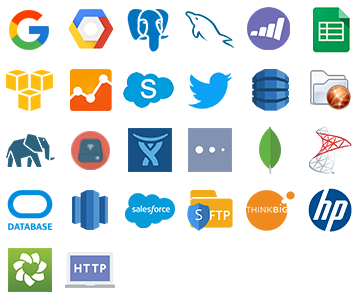
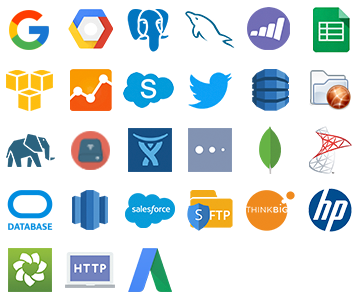
upd: add model, views, form, template for AdwordsDataSource

Changed region(s): [[0.3361, 0.81, 0.4889, 0.99]]

diff --git a/dmp/data_loader/templates/datasource/datasource_forms/adwords.html b/dmp/data_loader/templates/datasource/datasource_forms/adwords.html
@@ -1,0 +1,99 @@
+{% extends 'layout.html' %}
+{% load staticfiles %}
+{% block page_script %}
+<script src="{% static "js/datasource_crud.js" %}" type="text/javascript"></script>
+{% endblock %}
+{% block content %}
+
+    <div class="page datasources-add">
+        <div class="page-title">
+            <div class="content">
+                <h1>{% if form.instance.pk %}Update{% else %}Add{% endif %} Data Source - {{ provider.name }}</h1>
+            </div>
+        </div>
+
+        <div class="page-content">
+            <div class="content">
+
+                <div class="box">
+                    <div class="form-note">
+                        <span class="fa fa-lock"></span>
+                        All sensitive information is encrypted before stored
+                    </div>
+                    <div class="row">
+                        <div class="col col-50">
+                            <form id="form-create" method="POST" action="" enctype="multipart/form-data">
+                                    {% for error in form.non_field_errors %}
+                                        <p class="errors">{{ error }}</p>
+                                    {% endfor %}
+                                {% csrf_token %}
+                                <div class="form-row">
+                                    <div class="form-label">Data Source Name:</div>
+                                    {% for error in form.name.errors %}
+                                        <p class="errors">{{ error }}</p>
+                                    {% endfor %}
+                                    {{ form.name }}
+                                </div>
+                                <div class="form-row">
+                                    <div class="form-label">Conditions:</div>
+                                    {% for error in details_form.conditions.errors %}
+                                        <p class="errors">{{ error }}</p>
+                                    {% endfor %}
+                                    {{ details_form.conditions }}
+                                </div>
+                                <div class="form-row">
+                                    <div class="form-label">
+                                        Fields:
+                                    </div>
+                                    {% for error in details_form.field_list.errors %}
+                                        <p class="errors">{{ error }}</p>
+                                    {% endfor %}
+                                    {{ details_form.field_list }}
+                                    <div class="form-note">
+                                        <b>Note:</b> Field values must be separated by a comma (i.e. "CampaignId, CampaignName").<br>
+                                        Default values: CampaignId, CampaignName, CampaignStatus, Year, Month,
+                                        ClickType, ActiveViewCpm, AllConversions.
+                                    </div>
+                                </div>
+                                <div class="form-row">
+                                    <div class="form-label">Report:</div>
+                                    {% for error in details_form.report_type.errors %}
+                                        <p class="errors">{{ error }}</p>
+                                    {% endfor %}
+                                    {{ details_form.report_type }}
+                                    <div class="form-note">
+                                        <b>Note:</b> Default - CAMPAIGN_PERFORMANCE_REPORT.
+                                    </div>
+                                </div>
+                                <div class="form-row">
+                                    <div class="form-label">Date:</div>
+                                    {% for error in details_form.date_range.errors %}
+                                        <p class="errors">{{ error }}</p>
+                                    {% endfor %}
+                                    {{ details_form.date_range }}
+                                    <div class="form-note">
+                                        <b>Note:</b> Default - LAST_30_DAYS.
+                                    </div>
+                                </div>
+
+                                <div class="form-row">
+                                    <div class="form-label">Key file:</div>
+                                    <div class="form-file">
+                                        <span id="file-text-lable" class="form-placeholder">{% if details_form.instance.oauth_key_file %} {{ details_form.instance.filename }} {% else %}Upload OAuth key file...{% endif %}</span>
+                                        {% for error in details_form.oauth_key_file.errors %}
+                                            <p class="errors">{{ error }}</p>
+                                        {% endfor %}
+                                        {{ details_form.oauth_key_file }}
+                                    </div>
+                                </div>
+                                <div class="form-buttons">
+                                    <a href="javascript:void(0);" onclick="document.getElementById('form-create').submit(); return false;" class="button button-green">{% if form.instance.pk %}Update{% else %}Save & Collect{% endif %}</a>
+                                </div>
+                            </form>
+                        </div>
+                    </div>
+                </div>
+            </div>
+        </div>
+    </div>
+{% endblock %}

diff --git a/dmp/data_loader/static/css/style.css b/dmp/data_loader/static/css/style.css
@@ -443,6 +443,11 @@ h1, h2, h3 {
 .icon-dynamodb{
 	background-position: -30px -90px;
 }
+
+.icon-adwords{
+	background-position: -60px -120px;
+}
+
 /* boxes */
 .box {
 	background: #fff;

diff --git a/dmp/data_loader/forms.py b/dmp/data_loader/forms.py
@@ -2,7 +2,7 @@ from django import forms
 from data_loader.models import DataSource, DataFlowSettings, AnalyticsDataSource, SpreadsheetsDataSource, \
     PostgreSQLDataSource, VerticaDataSource, JDBCDataSource, OracleDBDataSource, MongoDBDataSource, FTPDataSource, \
     SalesforceDataSource, HadoopDataSource, GoogleCloudDataSource, MarketoDataSource, DynamoDBDataSource, \
-    HTTPDataSource, TwitterDataSource, ZendeskDataSource
+    HTTPDataSource, TwitterDataSource, ZendeskDataSource, AdwordsDataSource
 from django.utils.translation import ugettext_lazy as _
 from django.core.validators import FileExtensionValidator
 
@@ -598,3 +598,37 @@ class ZendeskDataSourceForm(forms.ModelForm):
     class Meta:
         model = ZendeskDataSource
         fields = ('login_url', 'username', 'password', 'target')
+
+
+class AdwordsDataSourceForm(forms.ModelForm):
+
+    conditions = forms.CharField(max_length=255, widget=forms.TextInput(
+        attrs={'class': 'form-input',
+               'placeholder': _('Query condition list (e.g. - "CampaignStatus IN")'),
+               'maxlength': 255}))
+
+    field_list = forms.CharField(max_length=255, widget=forms.TextInput(
+        attrs={'class': 'form-input',
+               'placeholder': _('Field list to query'),
+               'maxlength': 255}))
+
+    date_range = forms.CharField(max_length=255, widget=forms.TextInput(
+        attrs={'class': 'form-input',
+               'placeholder': _('Date range'),
+               'maxlength': 255}))
+
+    report_type = forms.CharField(max_length=255, widget=forms.TextInput(
+        attrs={'class': 'form-input',
+               'placeholder': _('Report type'),
+               'maxlength': 255}))
+
+    oauth_key_file = forms.FileField(widget=forms.FileInput(attrs={'class': 'form-input'}),
+                                     validators=[FileExtensionValidator(allowed_extensions=['json', 'yml', 'xml'])])
+
+    def __init__(self, *args, **kwargs):
+        self.request = kwargs.pop("request")
+        super(AdwordsDataSourceForm, self).__init__(*args, **kwargs)
+
+    class Meta:
+        model = AdwordsDataSource
+        fields = ('conditions', 'field_list', 'date_range', 'report_type', 'oauth_key_file')

diff --git a/dmp/data_loader/migrations/0025_adwordsdatasource.py b/dmp/data_loader/migrations/0025_adwordsdatasource.py
@@ -1,0 +1,32 @@
+# -*- coding: utf-8 -*-
+# Generated by Django 1.11 on 2017-07-05 14:52
+from __future__ import unicode_literals
+
+from django.db import migrations, models
+import django.db.models.deletion
+
+
+class Migration(migrations.Migration):
+
+    dependencies = [
+        ('data_loader', '0024_dynamodbdatasource_httpdatasource_twitterdatasource_zendeskdatasource'),
+    ]
+
+    operations = [
+        migrations.CreateModel(
+            name='AdwordsDataSource',
+            fields=[
+                ('data_source', models.OneToOneField(on_delete=django.db.models.deletion.CASCADE, primary_key=True, serialize=False, to='data_loader.DataSource')),
+                ('conditions', models.CharField(max_length=255, verbose_name='Query condition list')),
+                ('field_list', models.CharField(max_length=255, verbose_name='Field list to query')),
+                ('date_range', models.CharField(max_length=255, verbose_name='Date range')),
+                ('report_type', models.CharField(max_length=255, verbose_name='Report type')),
+                ('oauth_key_file', models.FileField(default=None, upload_to='file_uploads', verbose_name='OAuth2 keyfile')),
+            ],
+            options={
+                'verbose_name': 'Adwords Data source',
+                'verbose_name_plural': 'Adwords Data sources',
+            },
+            bases=('data_loader.datasource',),
+        ),
+    ]

diff --git a/dmp/data_loader/urls.py b/dmp/data_loader/urls.py
@@ -18,6 +18,7 @@ from data_loader.views.twitter import TwitterDataSourceCreateView, TwitterDataSo
 from data_loader.views.dynamodb import DynamoDBDataSourceCreateView, DynamoDBDataSourceUpdateView
 from data_loader.views.http import HTTPDataSourceCreateView, HTTPDataSourceUpdateView
 from data_loader.views.zendesk import ZendeskDataSourceCreateView, ZendeskDataSourceUpdateView
+from data_loader.views.adwords import AdwordsDataSourceCreateView, AdwordsDataSourceUpdateView
 
 urlpatterns = [
     url(r'^$', DataSourceListView.as_view(), name='datasource-list'),
@@ -141,6 +142,11 @@ urlpatterns = [
         name='teradata-datasource-create'),
     url(r'teradata-update/(?P<pk>[0-9]+)/$', PostgreSQLDataSourceUpdateView.as_view(),
         name='teradata-datasource-update'),
+
+    url(r'adwords-create/(?P<provider_id>[0-9]+)/$', AdwordsDataSourceCreateView.as_view(),
+        name='adwords-datasource-create'),
+    url(r'adwords-update/(?P<pk>[0-9]+)/$', AdwordsDataSourceUpdateView.as_view(),
+        name='adwords-datasource-update'),
 
     url(r'create/(?P<provider_id>[0-9]+)/$', DataSourceCreateView.as_view(), name='datasource-create'),
     url(r'update/(?P<pk>[0-9]+)/$', DataSourceUpdateView.as_view(), name='datasource-update'),

diff --git a/dmp/data_loader/models/adwords.py b/dmp/data_loader/models/adwords.py
@@ -1,0 +1,26 @@
+import os
+from django.db import models
+from .models import DataSource
+
+
+class AdwordsDataSource(DataSource):
+    data_source = models.OneToOneField(DataSource)
+    conditions = models.CharField('Query condition list', max_length=255)
+    field_list = models.CharField('Field list to query', max_length=255)
+    date_range = models.CharField('Date range', max_length=255)
+    report_type = models.CharField('Report type', max_length=255)
+    oauth_key_file = models.FileField('OAuth2 keyfile', upload_to='file_uploads', default=None)
+
+    class Meta:
+        verbose_name = 'Adwords Data source'
+        verbose_name_plural = 'Adwords Data sources'
+
+    def filename(self):
+        return os.path.basename(self.oauth_key_file.name)
+
+    def create_config_file(self):
+        pass
+
+    def update_config_file(self):
+        pass
+

diff --git a/dmp/data_loader/views/adwords.py b/dmp/data_loader/views/adwords.py
@@ -1,0 +1,19 @@
+from data_loader.forms import AdwordsDataSourceForm
+from data_loader.views import DataSourceCreateView, DataSourceUpdateView
+from data_loader.models import AdwordsDataSource
+
+
+class AdwordsDataSourceCreateView(DataSourceCreateView):
+
+    def get_details_form_class(self):
+        return AdwordsDataSourceForm
+
+
+class AdwordsDataSourceUpdateView(DataSourceUpdateView):
+    details_model_class = AdwordsDataSource
+
+    def get_detailed_data_source_object(self):
+        return self.details_model_class.objects.get(data_source=self.object)
+
+    def get_details_form_class(self):
+        return AdwordsDataSourceForm

diff --git a/dmp/data_loader/models/__init__.py b/dmp/data_loader/models/__init__.py
@@ -14,4 +14,5 @@ from .twitter import TwitterDataSource
 from .dynamobd import DynamoDBDataSource
 from .zendesk import ZendeskDataSource
 from .http import HTTPDataSource
+from .adwords import AdwordsDataSource
 from .models import DataSource, DataProvider, DataFlowSettings
